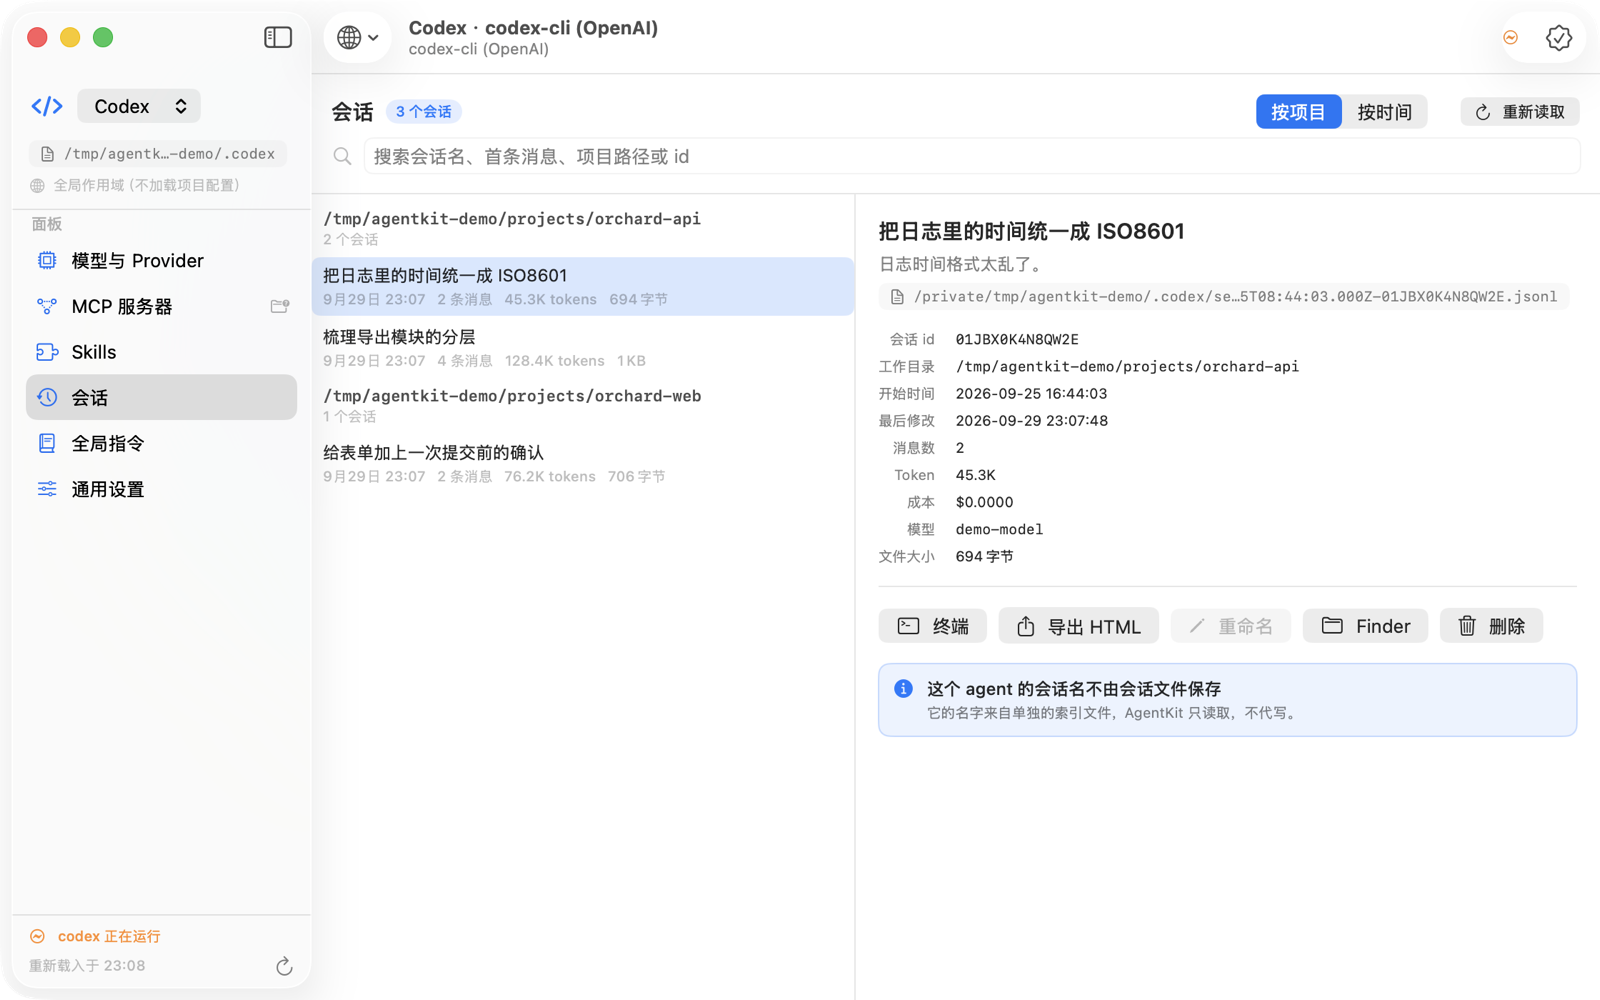
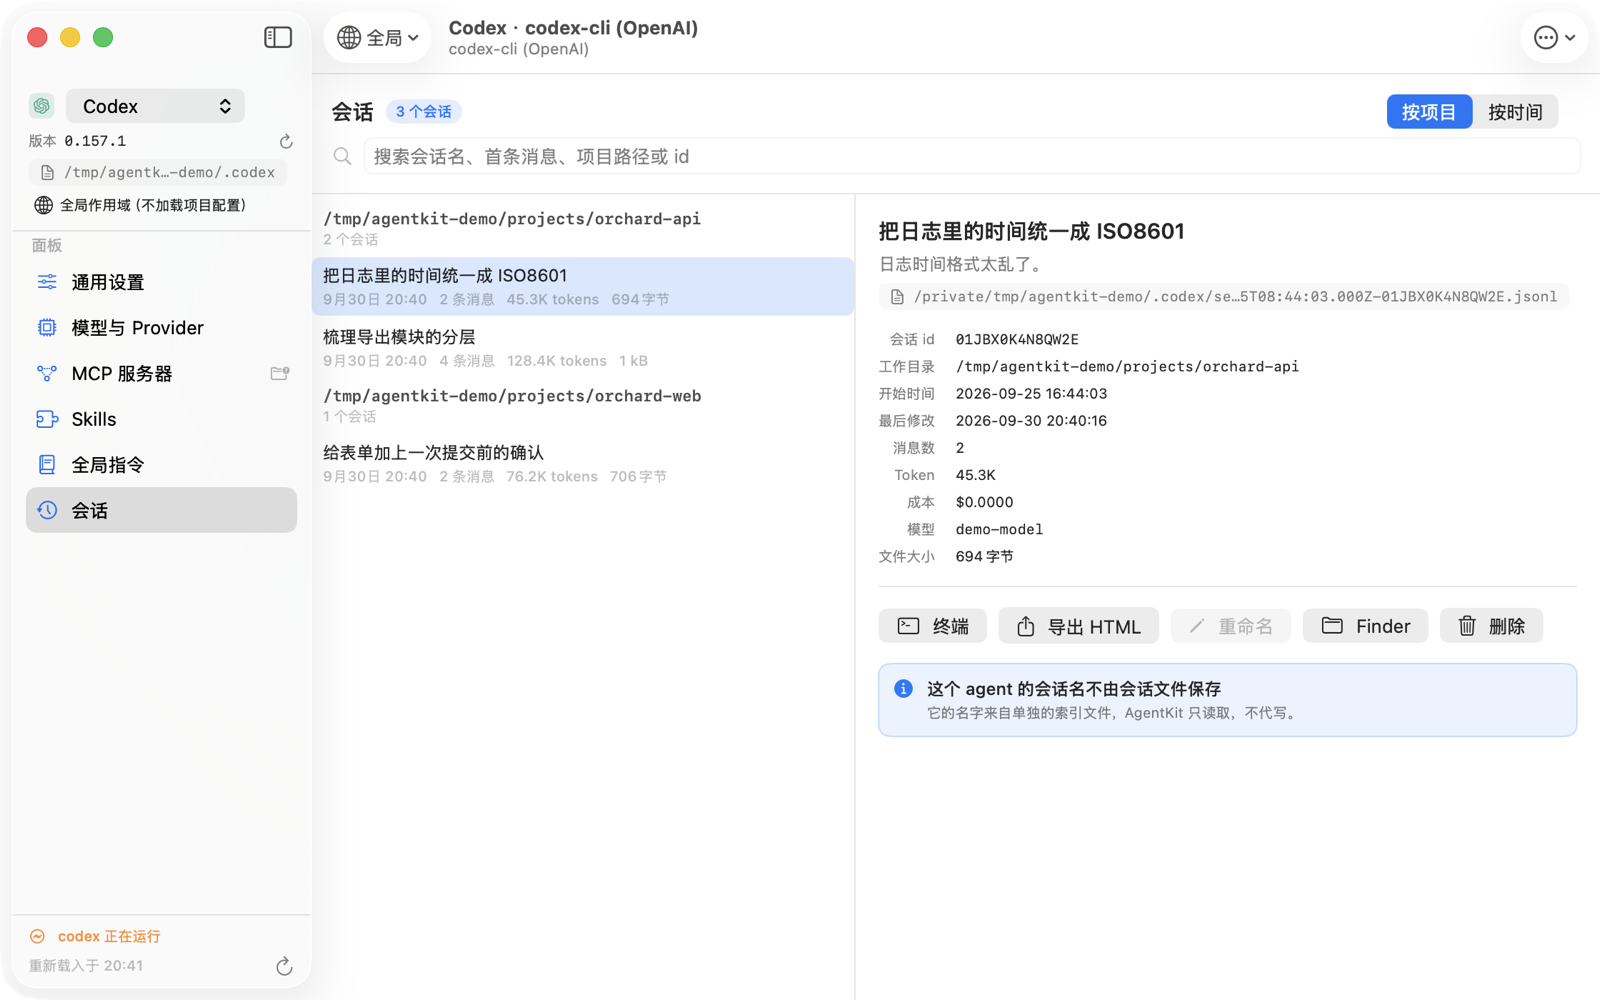
docs(assets): 重新生成 15 张截图（侧栏顺序、标记、版本行、主列底色都变了）
这一轮改的东西全在侧栏和面板主列上，旧图已经对不上：

- 侧栏顺序统一了（通用设置 → 模型与 Provider → MCP → Skills → 子 Agents →
  全局指令 → 会话 → 主题与扩展），每个 agent 少了哪一格就跳过哪一格
- 三个 agent 各自的标记（π / OpenAI 的结 / Anthropic 的星芒）与真实版本号
  （0.87.1 / 0.157.1 / 2.1.283）
- 面板主列不再有自己的底色，深色下那块"黑板"也没了

顺带把一个容易误判的现象写进 Tools/AGENTS.md：截图里侧栏选中行是**灰的**不是抓图失败 ——
`AGENTKIT_OPEN` 在窗口出现之后才改选中项，而 macOS 的侧栏只在选中项首帧就定下时才画
蓝色强调态。量过的对照：同一份构建、同一个面板，不带 `AGENTKIT_OPEN` 启动是蓝的，
带上就是灰的；旧的那一套图 15 张里也只有默认那张是蓝的，所以这一套的灰不是新问题。

生成方式没变：`./build.sh && ./Tools/make-screenshots.sh`，15 张全部通过脚本自带的
侧栏字节验收。夹具仍是 `Tools/make-demo.py` 生成的假数据。

diff --git a/Tools/AGENTS.md b/Tools/AGENTS.md
@@ -54,6 +54,11 @@ python3 Tools/make-demo.py            # 生成到 /tmp/agentkit-demo，全假数
 3. **必须带 `-ApplePersistenceIgnoreState YES`**，否则 AppKit 的崩溃恢复弹窗会成为
    唯一窗口，十二张图全是那张弹窗（字节数完全相同，是最好认的信号）
 
+还有一条**不是抓图失败**的现象，别去"修"它：截图里侧栏选中行是灰的（未强调样式）。
+`AGENTKIT_OPEN` 是在窗口出现**之后**才改选中项的，而 macOS 的侧栏只在选中项**首帧就定下**
+时才画蓝色强调态 —— 启动后再改会画成灰的。旧的那一套图也是这样（15 张里只有默认那张是蓝的）。
+量过的对照：同一份构建、同一个面板，不带 `AGENTKIT_OPEN` 启动是蓝的，带上就是灰的。
+
 脚本里已经有**验收**：裁出侧栏区域，小于 6KB（空白）判定失败并重试三次。
 **新增截图时照抄这个检查** —— 不要只靠看一眼。
 
